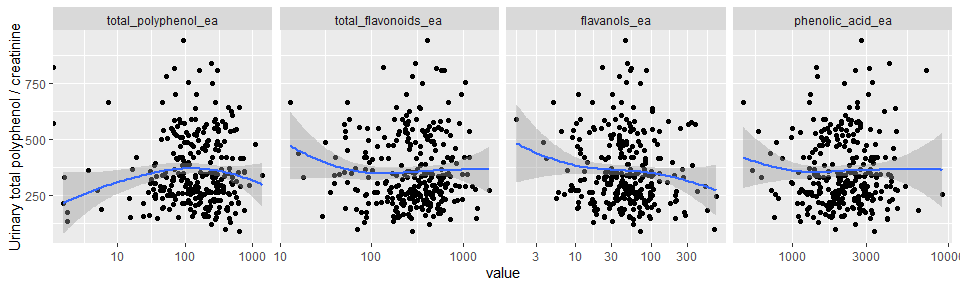
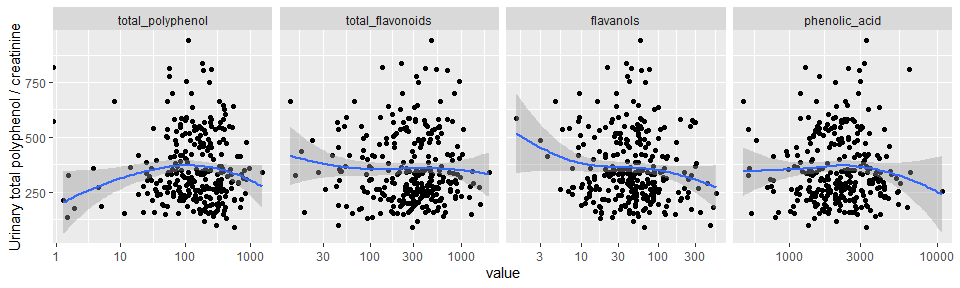
Revised urine pp and diet pp models, using non-energy-adjusted dietary intake

diff --git a/summary.md b/summary.md
@@ -522,10 +522,10 @@ WAHA Polyphenols Study
 
 -   To examine if there are any associations between dietary polyphenol
     intake and urine polyphenol at Year 2, scatterplots were produced.
-    Dietary intakes (total, flavonoids, flavanols, phenonic acids) were
-    energy-adjusted as described above. Note that in the scatterplots
-    below the x-axis is on the log-scale. A lowess smoothed curve was
-    fitted for each plot.
+    ~~Dietary intakes (total, flavonoids, flavanols, phenonic acids)
+    were energy-adjusted as described above.~~ Note that in the
+    scatterplots below the x-axis is on the log-scale. A lowess smoothed
+    curve was fitted for each plot.
 
 -   Scatterplots against **urine total polyphenol**:
 
@@ -543,83 +543,81 @@ WAHA Polyphenols Study
 -   Linear models for **urine total polyphenol**:
 
     -   There was a significantly **negative** association between urine
-        total polyphenol and the log of dietary total flaonoids (p =
-        0.0208). There were no significant associations with any other
+        total polyphenol and the log of dietary total flavonoids (p =
+        0.0316). There were no significant associations with any other
         dietary polyphenols.
 
 <!-- -->
 
-    ## $log_total_polyphenol_ea
-    ##                          Estimate Std. Error t value Pr(>|t|)
-    ## (Intercept)              255.2155   160.6739  1.5884   0.1133
-    ## log(total_polyphenol_ea)   3.0823    14.0336  0.2196   0.8263
-    ## age                       -0.0758     1.6228 -0.0467   0.9628
-    ## genderM                    9.6491    13.1845  0.7319   0.4649
-    ## BMI                        0.3930     1.2814  0.3067   0.7593
-    ## 
-    ## $log_total_flavonoids_ea
-    ##                          Estimate Std. Error t value Pr(>|t|)
-    ## (Intercept)              341.8514   122.2395  2.7966   0.0055
-    ## log(total_flavonoids_ea) -15.6156     6.7156 -2.3253   0.0208
-    ## age                        0.0131     1.6082  0.0081   0.9935
-    ## genderM                    8.6870    13.0649  0.6649   0.5066
-    ## BMI                        0.0454     1.2777  0.0355   0.9717
-    ## 
-    ## $log_flavanols_ea
+    ## $log_total_polyphenol
     ##                       Estimate Std. Error t value Pr(>|t|)
-    ## (Intercept)           259.8229   122.9543  2.1132   0.0354
-    ## log(flavanols_ea + 1)   3.9042     5.3959  0.7236   0.4699
-    ## age                    -0.0946     1.6217 -0.0583   0.9535
-    ## genderM                 9.4863    13.1718  0.7202   0.4720
-    ## BMI                     0.4378     1.2820  0.3415   0.7330
+    ## (Intercept)           216.3967   154.0658  1.4046   0.1612
+    ## log(total_polyphenol)   8.3303    12.9033  0.6456   0.5191
+    ## age                    -0.0933     1.6220 -0.0575   0.9542
+    ## genderM                 7.9148    13.4697  0.5876   0.5573
+    ## BMI                     0.4048     1.2806  0.3161   0.7522
     ## 
-    ## $log_phenolic_acid_ea
+    ## $log_total_flavonoids
     ##                       Estimate Std. Error t value Pr(>|t|)
-    ## (Intercept)           301.8429   124.9188  2.4163   0.0163
-    ## log(phenolic_acid_ea)  -4.9813     7.2990 -0.6825   0.4955
-    ## age                    -0.0110     1.6238 -0.0068   0.9946
-    ## genderM                 9.4368    13.1759  0.7162   0.4744
-    ## BMI                     0.4108     1.2806  0.3208   0.7486
+    ## (Intercept)           337.0380   122.3551  2.7546   0.0063
+    ## log(total_flavonoids) -14.2729     6.6088 -2.1597   0.0316
+    ## age                    -0.0111     1.6100 -0.0069   0.9945
+    ## genderM                11.0788    13.0883  0.8465   0.3980
+    ## BMI                     0.0686     1.2794  0.0536   0.9573
+    ## 
+    ## $log_flavanols
+    ##                    Estimate Std. Error t value Pr(>|t|)
+    ## (Intercept)        257.1619   122.5824  2.0979   0.0368
+    ## log(flavanols + 1)   4.7004     5.3475  0.8790   0.3801
+    ## age                 -0.1104     1.6212 -0.0681   0.9457
+    ## genderM              8.4723    13.2403  0.6399   0.5228
+    ## BMI                  0.4438     1.2811  0.3464   0.7293
+    ## 
+    ## $log_phenolic_acid
+    ##                    Estimate Std. Error t value Pr(>|t|)
+    ## (Intercept)        293.0093   124.2080  2.3590   0.0190
+    ## log(phenolic_acid)  -3.2375     7.0001 -0.4625   0.6441
+    ## age                 -0.0246     1.6252 -0.0151   0.9879
+    ## genderM             10.2964    13.2290  0.7783   0.4370
+    ## BMI                  0.4005     1.2811  0.3126   0.7548
 
 -   Linear models for **urine total polyphenol / creatinine**:
-    -   There was a significantly **negative** association between urine
-        total polyphenol/creatinine and the log of dietary total
-        flaonoids (p = 0.0456). There were no significant associations
-        with any other dietary polyphenols.
+    -   There were no significant associations with any of dietary
+        polyphenols.
 
 <!-- -->
 
-    ## $log_total_polyphenol_ea
-    ##                          Estimate Std. Error t value Pr(>|t|)
-    ## (Intercept)              433.5288   236.2797  1.8348   0.0676
-    ## log(total_polyphenol_ea)   5.9389    20.5443  0.2891   0.7727
-    ## age                       -1.2607     2.3971 -0.5259   0.5994
-    ## genderM                  -77.5863    19.4457 -3.9899   0.0001
-    ## BMI                       -0.2628     1.8957 -0.1386   0.8898
-    ## 
-    ## $log_total_flavonoids_ea
-    ##                          Estimate Std. Error t value Pr(>|t|)
-    ## (Intercept)              557.3405   180.2409  3.0922   0.0022
-    ## log(total_flavonoids_ea) -19.9167     9.9181 -2.0081   0.0456
-    ## age                       -1.1209     2.3810 -0.4708   0.6382
-    ## genderM                  -78.8516    19.3166 -4.0821   0.0001
-    ## BMI                       -0.6928     1.8932 -0.3659   0.7147
-    ## 
-    ## $log_flavanols_ea
+    ## $log_total_polyphenol
     ##                       Estimate Std. Error t value Pr(>|t|)
-    ## (Intercept)           486.9216   181.2452  2.6865   0.0077
-    ## log(flavanols_ea + 1)  -1.7562     8.1623 -0.2152   0.8298
-    ## age                    -1.2374     2.3979 -0.5160   0.6062
-    ## genderM               -77.3802    19.4443 -3.9796   0.0001
-    ## BMI                    -0.2970     1.8976 -0.1565   0.8758
+    ## (Intercept)           382.6991   227.1156  1.6850   0.0931
+    ## log(total_polyphenol)  12.7925    18.9501  0.6751   0.5002
+    ## age                    -1.2801     2.3956 -0.5343   0.5935
+    ## genderM               -80.1358    19.8299 -4.0412   0.0001
+    ## BMI                    -0.2467     1.8943 -0.1302   0.8965
     ## 
-    ## $log_phenolic_acid_ea
+    ## $log_total_flavonoids
     ##                       Estimate Std. Error t value Pr(>|t|)
-    ## (Intercept)           489.9372   184.4582  2.6561   0.0084
-    ## log(phenolic_acid_ea)  -2.3505    10.7419 -0.2188   0.8270
-    ## age                    -1.2259     2.3998 -0.5108   0.6099
-    ## genderM               -77.6193    19.4564 -3.9894   0.0001
-    ## BMI                    -0.2679     1.8956 -0.1413   0.8877
+    ## (Intercept)           548.0577   180.5432  3.0356   0.0026
+    ## log(total_flavonoids) -17.2347     9.7593 -1.7660   0.0785
+    ## age                    -1.1666     2.3844 -0.4893   0.6250
+    ## genderM               -75.9182    19.3548 -3.9225   0.0001
+    ## BMI                    -0.6461     1.8965 -0.3407   0.7336
+    ## 
+    ## $log_flavanols
+    ##                    Estimate Std. Error t value Pr(>|t|)
+    ## (Intercept)        479.9995   180.8112  2.6547   0.0084
+    ## log(flavanols + 1)  -0.2885     8.0885 -0.0357   0.9716
+    ## age                 -1.2485     2.3986 -0.5205   0.6031
+    ## genderM            -77.3819    19.5416 -3.9599   0.0001
+    ## BMI                 -0.2796     1.8973 -0.1474   0.8830
+    ## 
+    ## $log_phenolic_acid
+    ##                    Estimate Std. Error t value Pr(>|t|)
+    ## (Intercept)        479.4623   183.3299  2.6153   0.0094
+    ## log(phenolic_acid)  -0.1633    10.3095 -0.0158   0.9874
+    ## age                 -1.2493     2.4009 -0.5203   0.6033
+    ## genderM            -77.4259    19.5113 -3.9683   0.0001
+    ## BMI                 -0.2760     1.8957 -0.1456   0.8843
 
 ### Association between urine polyphenol and blood lipids
 
